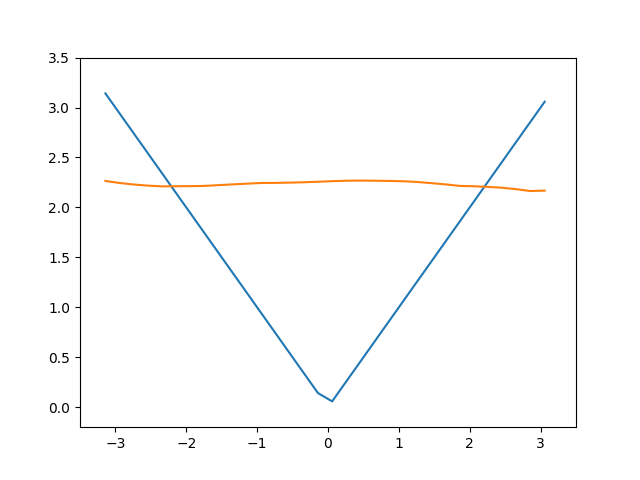
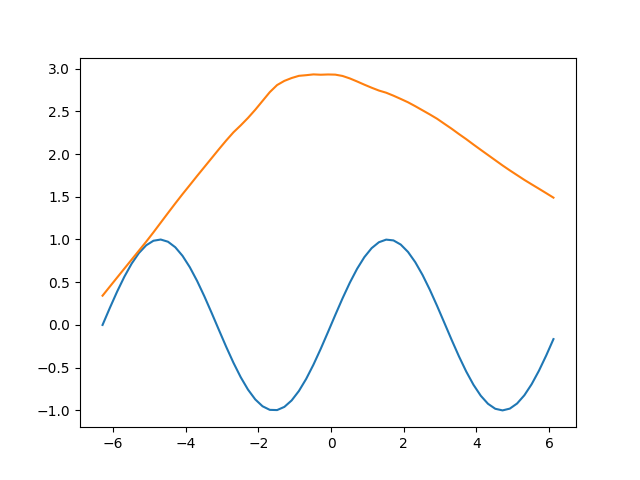
minor fix on relu

diff --git a/base.py b/base.py
@@ -16,7 +16,7 @@ class NN():
 		self.numX = 2
 		self.numW = [5]
 		self.numY = 2
-		self.func = 'relu'
+		self.func = 'relu' # default function set to relu
 
 		## Initialize input variables
 		if (len(args)>0):
@@ -82,7 +82,9 @@ class NN():
 		return result
 
 	def lrelu(self, X):
-		result = abs(X)
+		result = np.zeros(X.shape)
+		for i in range(len(X[0])):
+			result[0][i] = X[0][i] if X[0][i] else 0.001*X[0][i]
 		return result
 
 	'''
@@ -92,6 +94,7 @@ class NN():
 	def forward(self, X):
 		a = np.array([X])
 		for i in range(len(self.W)):
+			# print(np.dot(a, self.W[i]) / np.prod(a.shape))
 			z = np.dot(a, self.W[i]) / np.prod(a.shape) + self.B[i] # z = a*w + b
 			if (i==len(self.W)-1):
 				return z
@@ -135,21 +138,17 @@ class NN():
 		# D[0] = (A[-1]-Y) * A[-1]*(1-A[-1])
 		D[0] = (A[-1]-Y)
 		# D[0] = 0.5 * (A[-1]-Y)**2 / np.prod(A[-1].shape) * A[-1]*(1-A[-1])
-		np.seterr(all='raise')
+		# np.seterr(all='raise')
 		for i in range(len(self.W)):
 			if (self.func=='sigmoid'):
 				D[i+1] = np.multiply(np.transpose(np.dot(self.W[-i-1], np.transpose(D[i]))), np.multiply(A[-2-i],(1-A[-2-i])))
 			elif (self.func=='relu'):
-				# print([1 if element>0 else 0 for element in A[-2-i][0]])
-				# try:
-				print(np.transpose(np.dot(self.W[-i-1], np.transpose(D[i]))))
 				D[i+1] = np.multiply(np.transpose(np.dot(self.W[-i-1], np.transpose(D[i]))), np.array([1 if element>0 else 0 for element in A[-2-i][0]]))
-				# except:
-				# 	print("Error!")
-				# 	print(np.transpose(np.dot(self.W[-i-1], np.transpose(D[i]))))
 			elif (self.func=='relu2'):
 				D[i+1] = np.transpose(np.dot(self.W[-i-1], np.transpose(D[i])))
 			elif (self.func=='lrelu'):
-				D[i+1] = np.multiply(np.transpose(np.dot(self.W[-i-1], np.transpose(D[i]))), [1 if element>0 else 0.001 for element in A[-2-i][0]])
-			self.W[-1-i] = self.W[-1-i] - n * np.dot(np.transpose(A[-2-i])/np.prod(A[-2-i].shape), D[i+1])
-			self.B[-1-i] = self.B[-1-i] - n * D[i+1]
+				D[i+1] = np.multiply(np.transpose(np.dot(self.W[-i-1], np.transpose(D[i]))), np.array([1 if element>0 else 0.001 for element in A[-2-i][0]]))
+			else:
+				D[i+1] = np.multiply(np.transpose(np.dot(self.W[-i-1], np.transpose(D[i]))), np.array([1 if element>0 else 0 for element in A[-2-i][0]]))
+			self.W[-1-i] = self.W[-1-i] - n * (np.dot(np.transpose(A[-2-i])/np.prod(A[-2-i].shape), D[i]))
+			self.B[-1-i] = self.B[-1-i] - n * D[i]

diff --git a/test_NN.py b/test_NN.py
@@ -39,34 +39,32 @@ Test case for function approximator
 '''
 DO = True
 if(DO==True):
-	sinNet = base.NN(1,1,[128,128], func='relu')
+	sinNet = base.NN(1,1,[64,128], func='relu')
 
-	X = np.arange(-math.pi,math.pi, 0.2)
+	X = np.arange(-2*math.pi,2*math.pi, 0.2)
 	# Y = np.sin(X)
-	Y = abs(X)
+	Y = np.sin(X)
 
-	num_iter = 200
-	num_epoch = 1
+	num_iter = 5000
+	num_epoch = 5
 	sample_x = np.zeros(num_iter)
 	sample_y = np.zeros(num_iter)
 	
 	# print(sinNet.W)
 	for i in range(num_iter):
-		x = np.random.rand()*math.pi*2.0-math.pi
+		x = np.random.rand()*math.pi*6.0-3*math.pi
 		# y = np.sin(x)
-		y = abs(x)
+		y = np.sin(x)
 		if (x!=0 and y!=0):
 			for k in range(num_epoch):
-				sinNet.train([x],[y], 0.2)
+				sinNet.train([x],[y], 0.005)
 			sample_x[i] = x
 			sample_y[i] = y
 
-		Yhat = np.zeros(Y.shape)
-		for j, x in enumerate(X):
-			Yhat[j] = sinNet.forward(x)
-
-
 		if(i==1 or i==num_iter-1):
+			Yhat = np.zeros(Y.shape)
+			for j, x in enumerate(X):
+				Yhat[j] = sinNet.forward(x)
 			f = plt.figure(1)
 			ax = f.gca()
 			f.show()
@@ -74,10 +72,12 @@ if(DO==True):
 			# ax.plot(sample_x, sample_y, 'o', X, Y, X, Yhat)
 			ax.plot(X, Y, X, Yhat)
 			# ax.axis([-3.5, 3.5, -1.2, 1.2])
-			ax.axis([-3.5, 3.5, -0.2, 3.5])
+			# ax.axis([-3.s5, 3.5, -0.2, 3.5])
 			f.canvas.draw()
 			f.savefig(str(i)+" iterations.png")
 
 			# print(sinNet.W)
 		time.sleep(0.01)
+
+
 	# f.savefig(str(num_iter)+" iterations.png")
